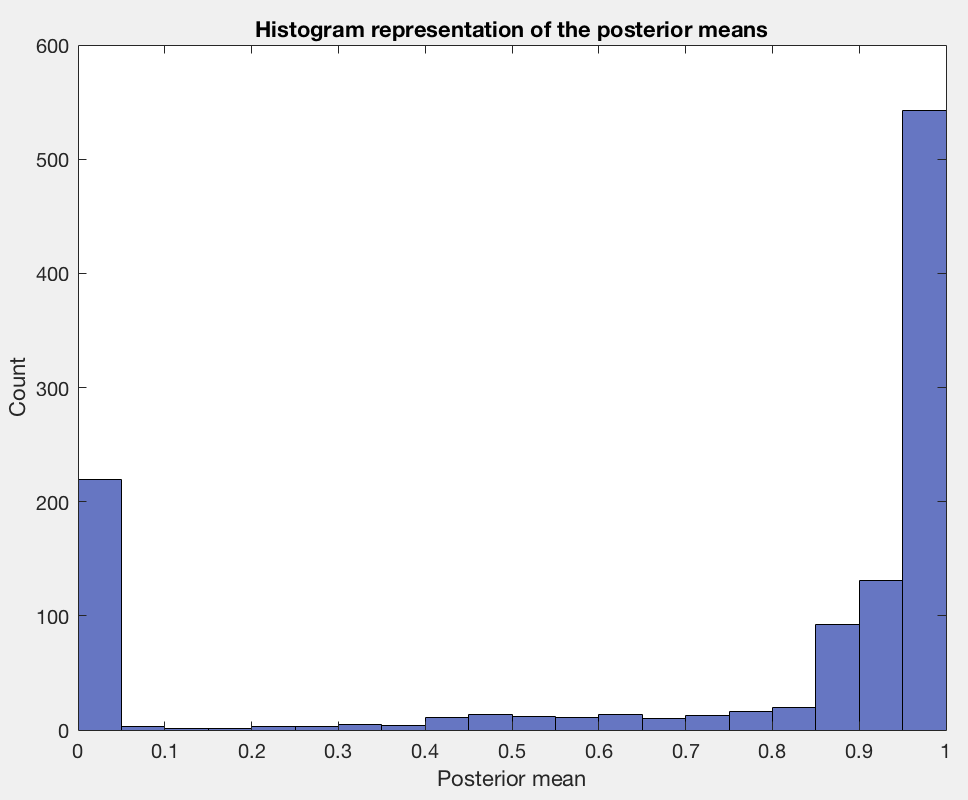
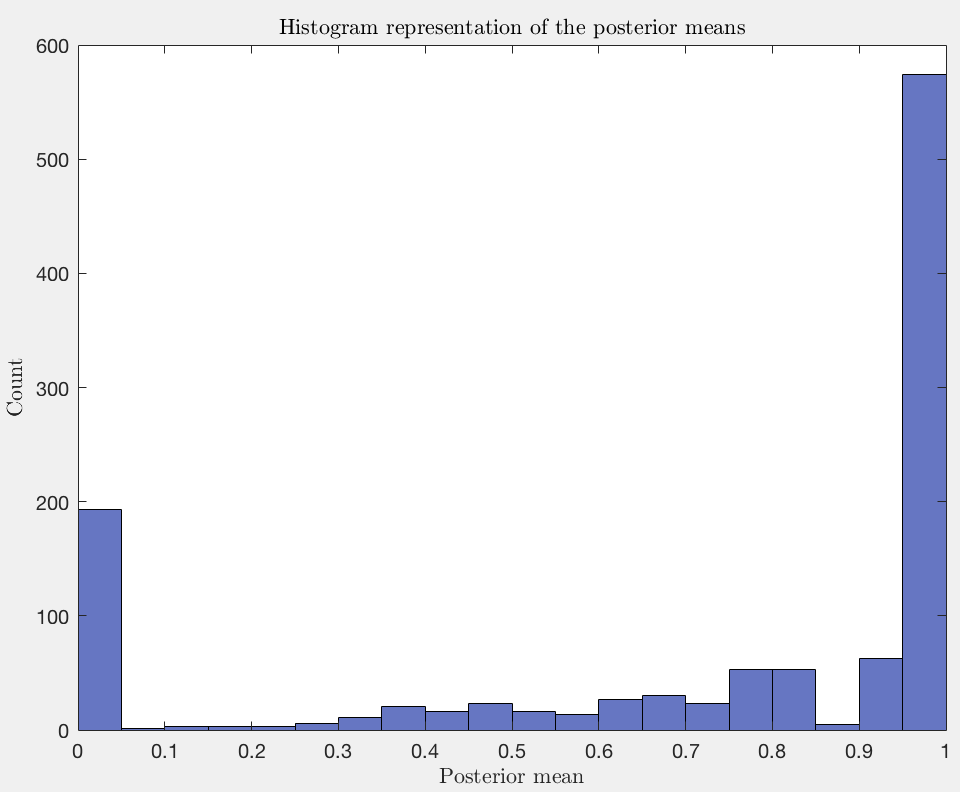
Corrects some more bin widths + new hist plot

diff --git a/code/main.m b/code/main.m
@@ -41,11 +41,11 @@ toc
 %draw_policy(pi_star,mdp.states);
  
 %% imitation reinforcement learning methods
-  load('misc/policy/subopt_policy_3.mat','pi'); pi_m = pi;
-  il_method = 'av'; % 'ac' % 'av' % 'naive'
+  load('misc/policy/subopt_policy_2.mat','pi'); pi_m = pi;
+  il_method = 'ac'; % 'ac' % 'av' % 'naive'
   switch il_method 
       case 'ac'
-          [pi_star,mdp] = ac_imitation_learning_off(pi_m, mdp);
+          [pi_star,mdp] = ac_imitation_learning(pi_m, mdp);
           draw_compliance_cmap(pi,mdp.states)
       case 'av'
           [pi_star,mdp] = av_imitation_learning(pi_m, mdp);

diff --git a/code/utils/configure_mdp.m b/code/utils/configure_mdp.m
@@ -92,7 +92,7 @@ switch model_name
         mdp.ac_il.temp_mult = 0.99;
         mdp.ac_il.max_iter = 400;
         mdp.ac_il.init_lr = 1;
-        mdp.ac_il.eps = 0.3;
+        mdp.ac_il.eps = 2;
         % Action value imitation learning 
         mdp.av_il.t0 = 0.5;
         mdp.av_il.qd_init_value = 0;
